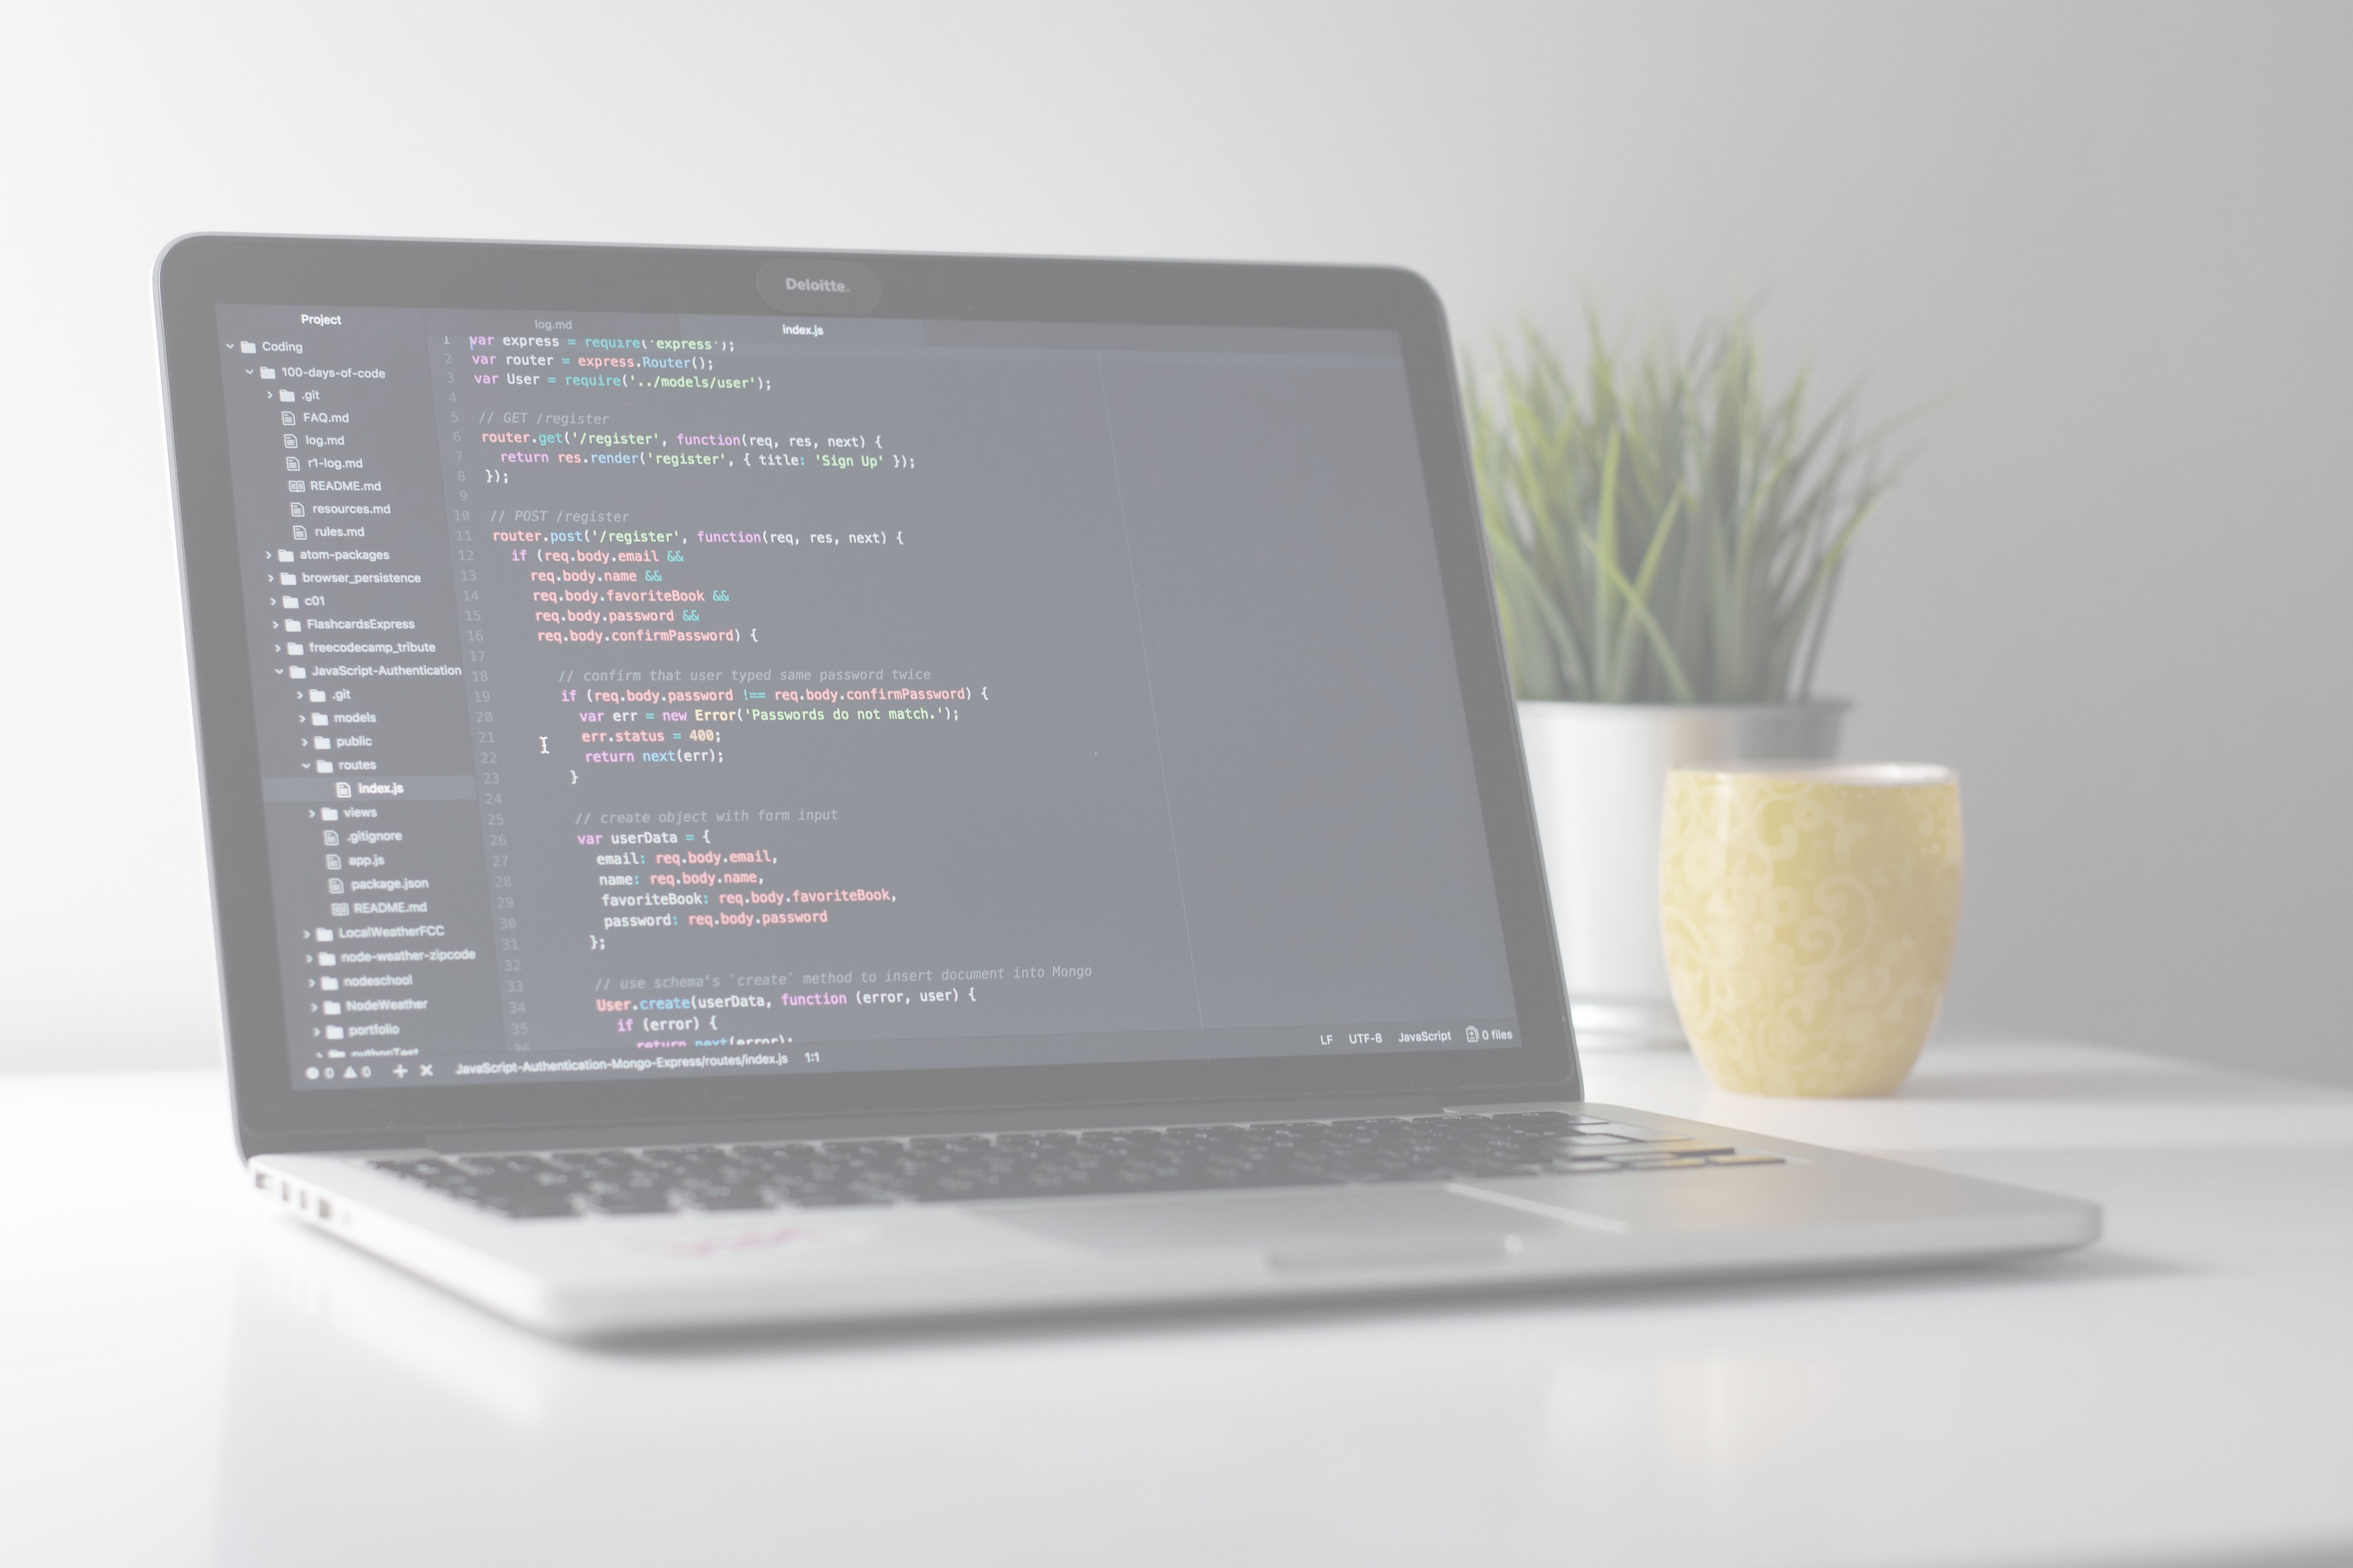
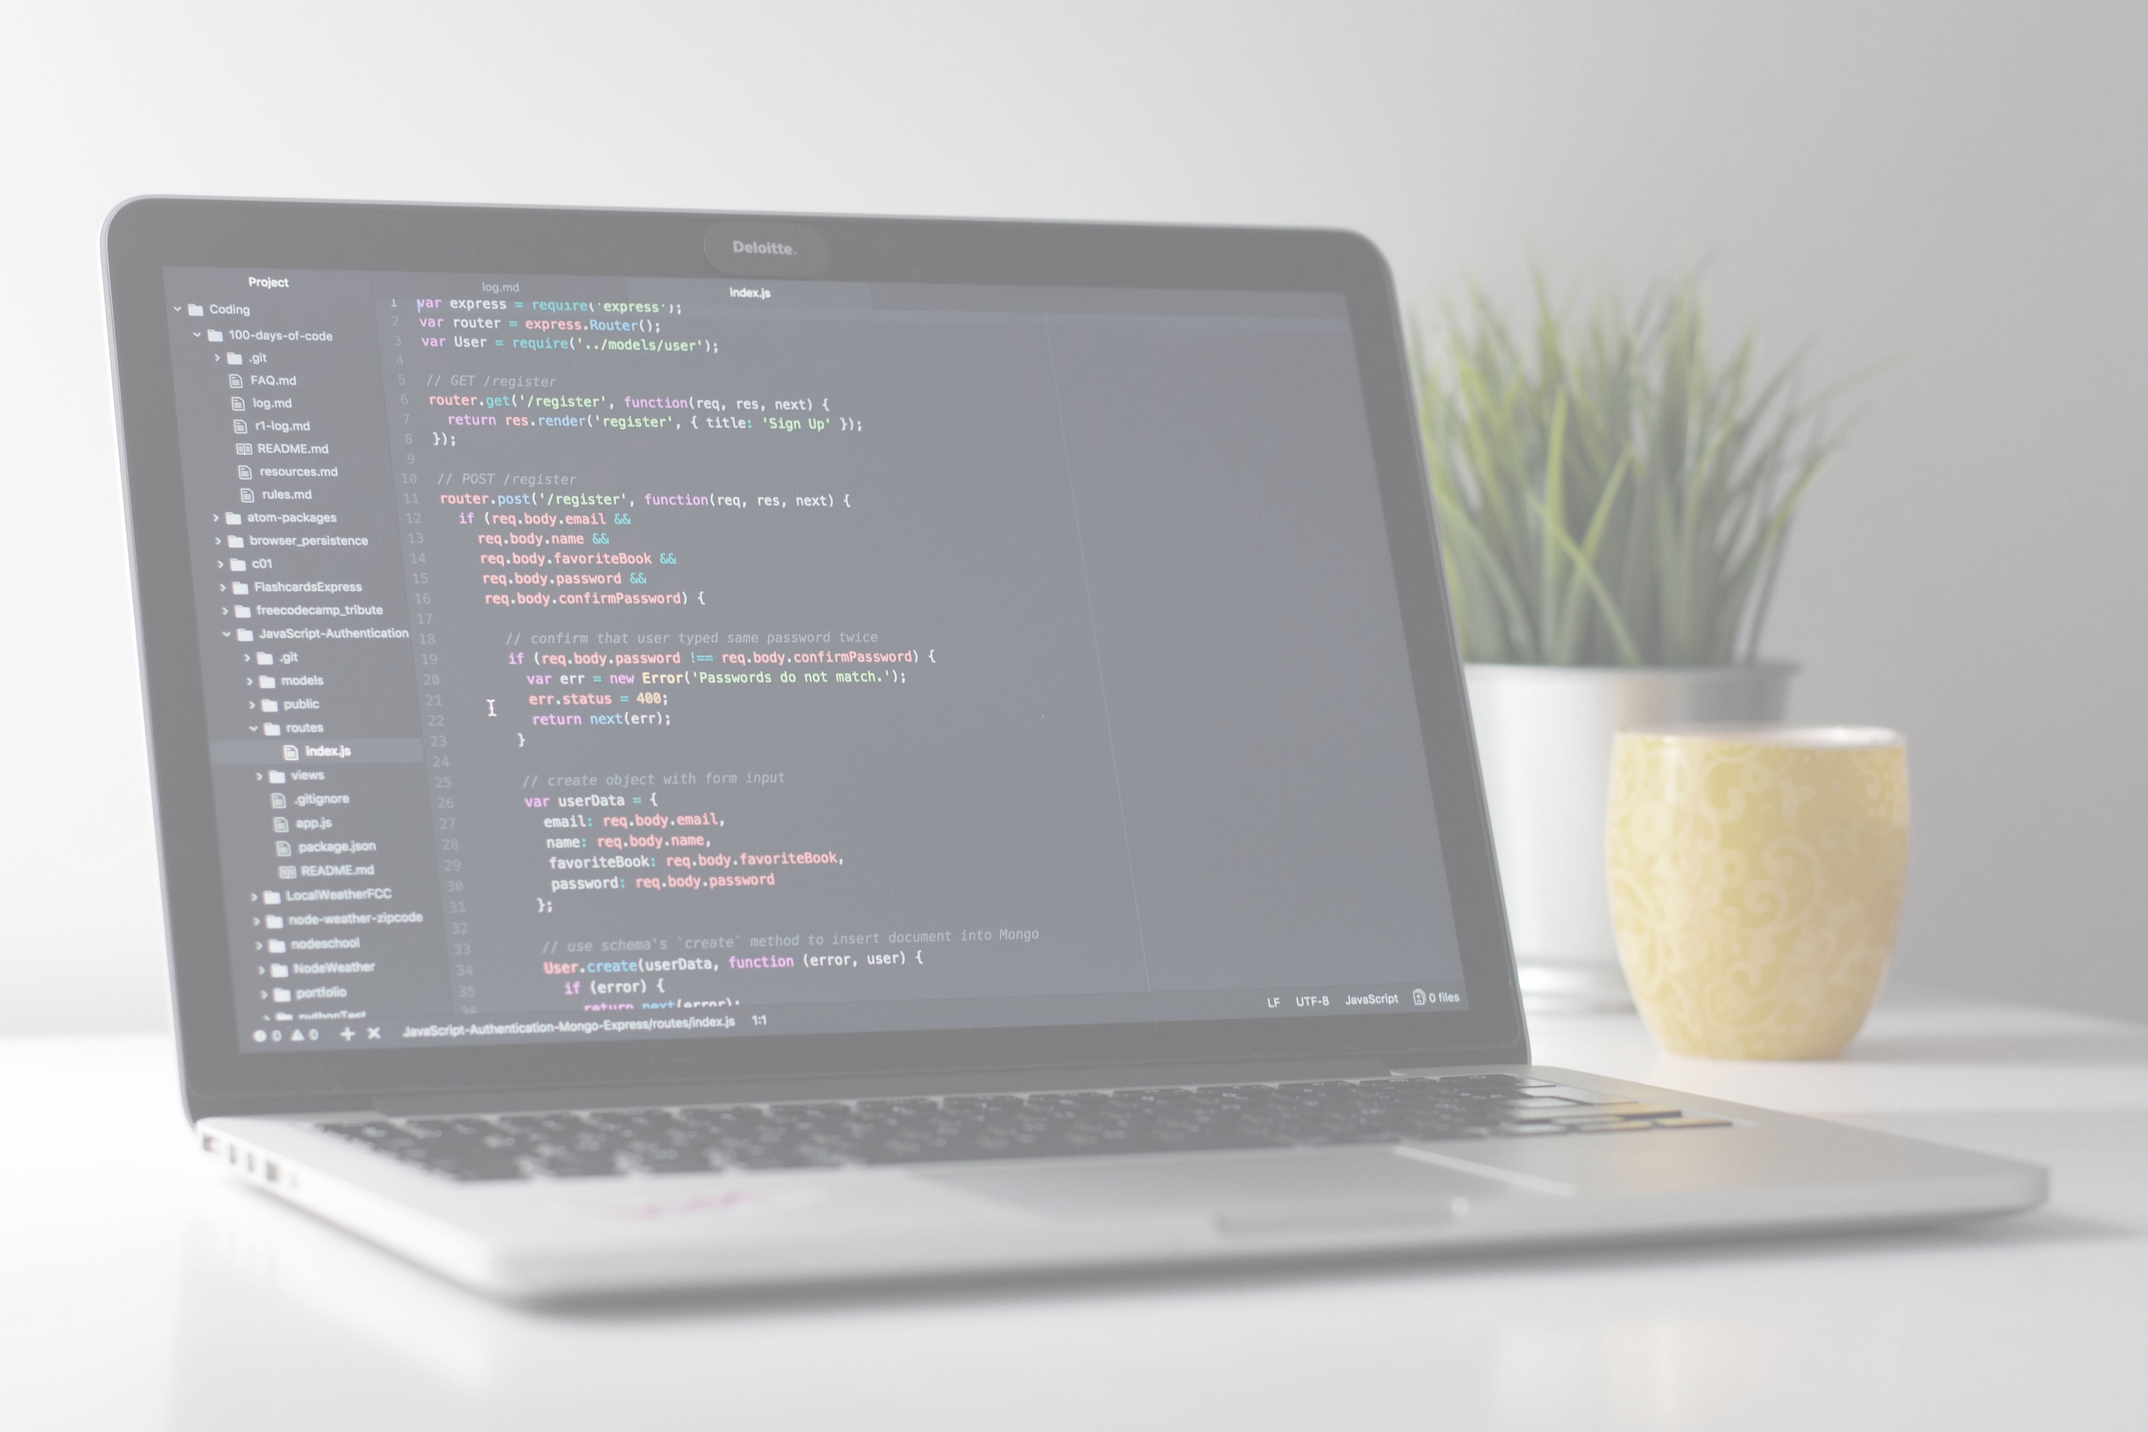
Updated layout and bg photo

Changed region(s): [[0.0312, 0.1248, 0.9987, 0.9362], [0.8427, 0.9674, 1.0, 1.0], [0.9675, 0.6866, 1.0, 0.7178]]

diff --git a/index.html b/index.html
@@ -43,14 +43,14 @@
 
             <div class="menu-content">
                <button class="toggle">
-                  <i class="fa-solid fa-bars"></i>
+                  <i class="fa-solid fa-bars" title="menu"></i>
                </button>
             </div>
 
             <div class="home-title">
                <div class="i-photo">
                   <figure>
-                     <img src="img/d-con.jpg" alt id="profile-image">
+                     <img src="img/d-con.jpg" alt="D icon" id="profile-image">
                   </figure>
                </div>
 
@@ -70,8 +70,8 @@
                </div>
             </div>
             <div class="header-icons">
-               <a href="https://www.linkedin.com/in/ddarlin1/" target="_blank"><i class="fa-brands fa-linkedin fa-4x"></i></a>
-               <a href="https://github.com/ddarlin1/" target="_blank"><i class="fa-brands fa-github fa-4x"></i></a>
+               <a href="https://www.linkedin.com/in/ddarlin1/" target="_blank"><i class="fa-brands fa-linkedin fa-4x" alt="LinkedIn"></i></a>
+               <a href="https://github.com/ddarlin1/" target="_blank"><i class="fa-brands fa-github fa-4x" alt="GitHub"></i></a>
             </div>
          </div>
       </header>
@@ -82,7 +82,7 @@
                <h3>About Me</h3>
                <div class="half-content">
                   <figure>
-                     <img src="img/dd-clear.jpg" alt id="about-photo">
+                     <img src="img/dd-clear.jpg" alt="photo of Dani Darling" id="about-photo">
                   </figure>
                   <p class="about-text">
                      Hi there, I’m <span>Dani Darling</span>.<br>
@@ -225,14 +225,14 @@
                   <h4 class="contact-title">Hire me</h4>
                   <i class="fa-solid fa-phone fa-2x"></i>
                   <p>646-379-1649</p>
-                  <a href="mailto:ddarling212@gmail.com"><i class="fa-solid fa-envelope fa-2x"></i></a>
+                  <a href="mailto:ddarling212@gmail.com"><i class="fa-solid fa-envelope fa-2x" alt="email"></i></a>
                   <p>ddarling212<span>@</span>gmail.com</p>
                </div>
                <div class="contact-info follow">
                   <h4 class="contact-title">Follow me</h4>
                   <div class="social-icons">
-                     <a href="https://www.linkedin.com/in/ddarlin1/" target="_blank"><i class="fa-brands fa-linkedin fa-4x"></i></a>
-                     <a href="https://github.com/ddarlin1/" target="_blank"><i class="fa-brands fa-github fa-4x"></i></a>
+                     <a href="https://www.linkedin.com/in/ddarlin1/" target="_blank"><i class="fa-brands fa-linkedin fa-4x" alt="LinkedIn"></i></a>
+                     <a href="https://github.com/ddarlin1/" target="_blank"><i class="fa-brands fa-github fa-4x" alt="GitHub"></i></a>
                   </div>
                </div>
                <div class="contact-form">
@@ -242,6 +242,7 @@
                         <input 
                            type="text" 
                            name="name" 
+                           title="name"
                            id="full-name" 
                            placeholder="First & Last Name" 
                            required 
@@ -249,17 +250,19 @@
                         <input 
                            type="text"
                            name="replyto"
+                           title="email"
                            id="email-address"
                            placeholder="your_email@email.com"
                            required
                         />
                         <textarea
                            name="message"
+                           title="message"
                            id="message"
                            placeholder="Message"
                            required
                         ></textarea>
-                        <button class="btn" type="submit">Send</button>
+                        <button class="btn" type="submit">SEND</button>
                      </form>
                   </div>
                </div>

diff --git a/css/style.css b/css/style.css
@@ -140,13 +140,13 @@ header {
 
 header .content-wrapper {
     background: rgba(51, 75, 113, 0.97);
-    border-radius: 5%;
+    border-radius: 10%;
 }
 
 
 /* Nav Open Button */
 .toggle {
-    background: #89c9ff;
+    background: var(--light-blue);
     outline: 0;
     margin-top: 15px;
     padding: 10px 15px;
@@ -289,13 +289,11 @@ ul li a:hover {
 /* -------- INTRO TITLE -------- */
 
 #home i {
-    color: #a378a2;
+    color: var(--rose);
 }
 
 /* Intro Photo */
 .i-photo {
-    display: flex;
-    justify-content: center;
     margin: 30px;
 }
 
@@ -338,7 +336,7 @@ ul li a:hover {
 }
 
 #about .content-wrapper {
-    width: 75%;
+    width: 70%;
 }
 
 #about-photo {
@@ -355,12 +353,17 @@ ul li a:hover {
 
 .about-text span {
     color: var(--light-blue);
+    font-size: 1.1em;
     font-family: 'Roboto Serif', sans-serif;
 }
 
 /* Skills */
 #skills {
     background-color: var(--blue);
+}
+
+#skills .content-wrapper {
+    width: 80%;
 }
 
 .language-wrapper ul {
@@ -416,20 +419,24 @@ ul li a:hover {
     justify-content: center;
     align-items: center;
     flex-direction: column;
-    padding: 10px;
+    padding: 25px;
 }
 
 .portfolio-piece figure {
-    filter: drop-shadow(1px 3px 6px lightgrey);
+    filter: drop-shadow(1px 2px 3px gray);
 }
 
 .portfolio-piece figure:hover {
-    transform: scale(1.07);
-    filter: drop-shadow(0px 1px 3px plum);
+    transform: scale(1.02);
+}
+
+.portfolio-piece figure img {
+    border-radius: 5px;
+    width: 97%;
 }
 
 .project-description {
-    width: 95%;
+    width: 90%;
 }
 
 /* ---------- FOOTER ---------- */
@@ -449,27 +456,9 @@ footer span {
     padding: 3px;
 }
 
-footer .contact-info follow {
-    display: flex;
-    justify-content: center;
-    flex-flow: row wrap;
-}
-
 footer .social-icons {
     display: flex;
     justify-content: space-around;
-}
-
-footer ul {
-    width: 100%;
-}
-
-footer .social-icons li {
-    width: 40px;
-    height: 40px;
-    display: flex;
-    justify-content: center;
-    align-items: center;
 }
 
 #connect a i:hover {
@@ -494,10 +483,9 @@ form {
 
 form input, form textarea {
     border: 1px white solid;
-    border-radius: 5px;
+    border-radius: 10px;
     display: block;
-    margin: 0 auto 1em auto;
-    padding-left: 5px;
+    margin: 1em;
     width: 95%;
     height: 2em;
 }
@@ -509,20 +497,23 @@ form #message {
 form ::placeholder {
     color: var(--dark-gray);
     padding-top: 2px;
+    padding-left: 5px;
 }
 
 #contact-form button {
-    background-color: var(--light-blue);
-    border-radius: 5px;
+    background-color: var(--rose);
+    border-radius: 10px;
     color: #fff;
+    font-weight: 900;
     border: none;
-    width: 60%;
-    padding: 5px;
+    width: 50%;
+    margin: .25em;
+    padding: 15px 0 15px 0;
     font-size: 1.25em;
 }
 
 #contact-form button:hover {
-    background-color: var(--rose);
+    background-color: var(--light-blue);
 }
 
 /* ----------------------------------  MEDIA QUERIES ----------------- */
@@ -566,6 +557,13 @@ form ::placeholder {
     footer .social-icons i {
         padding-bottom: 30px;
     }
+
+    #full-name, 
+    #email-address {
+        display: inline;
+        width: 46.25%;
+        margin: 3px;
+    }
 }
 
 /* ---------- DESKTOP ---------- */
@@ -586,8 +584,12 @@ form ::placeholder {
         align-items: center;
     }
 
+    .i-photo {
+        padding-left: 15px;
+    }
+
     #profile-image {
-        width: 225px;
+        width: 240px;
     }
 
     .home-name {
@@ -629,5 +631,10 @@ form ::placeholder {
 
     .contact-form {
         width: 70%;
+    }
+
+    #full-name, 
+    #email-address {
+        margin: 5px;
     }
 }
